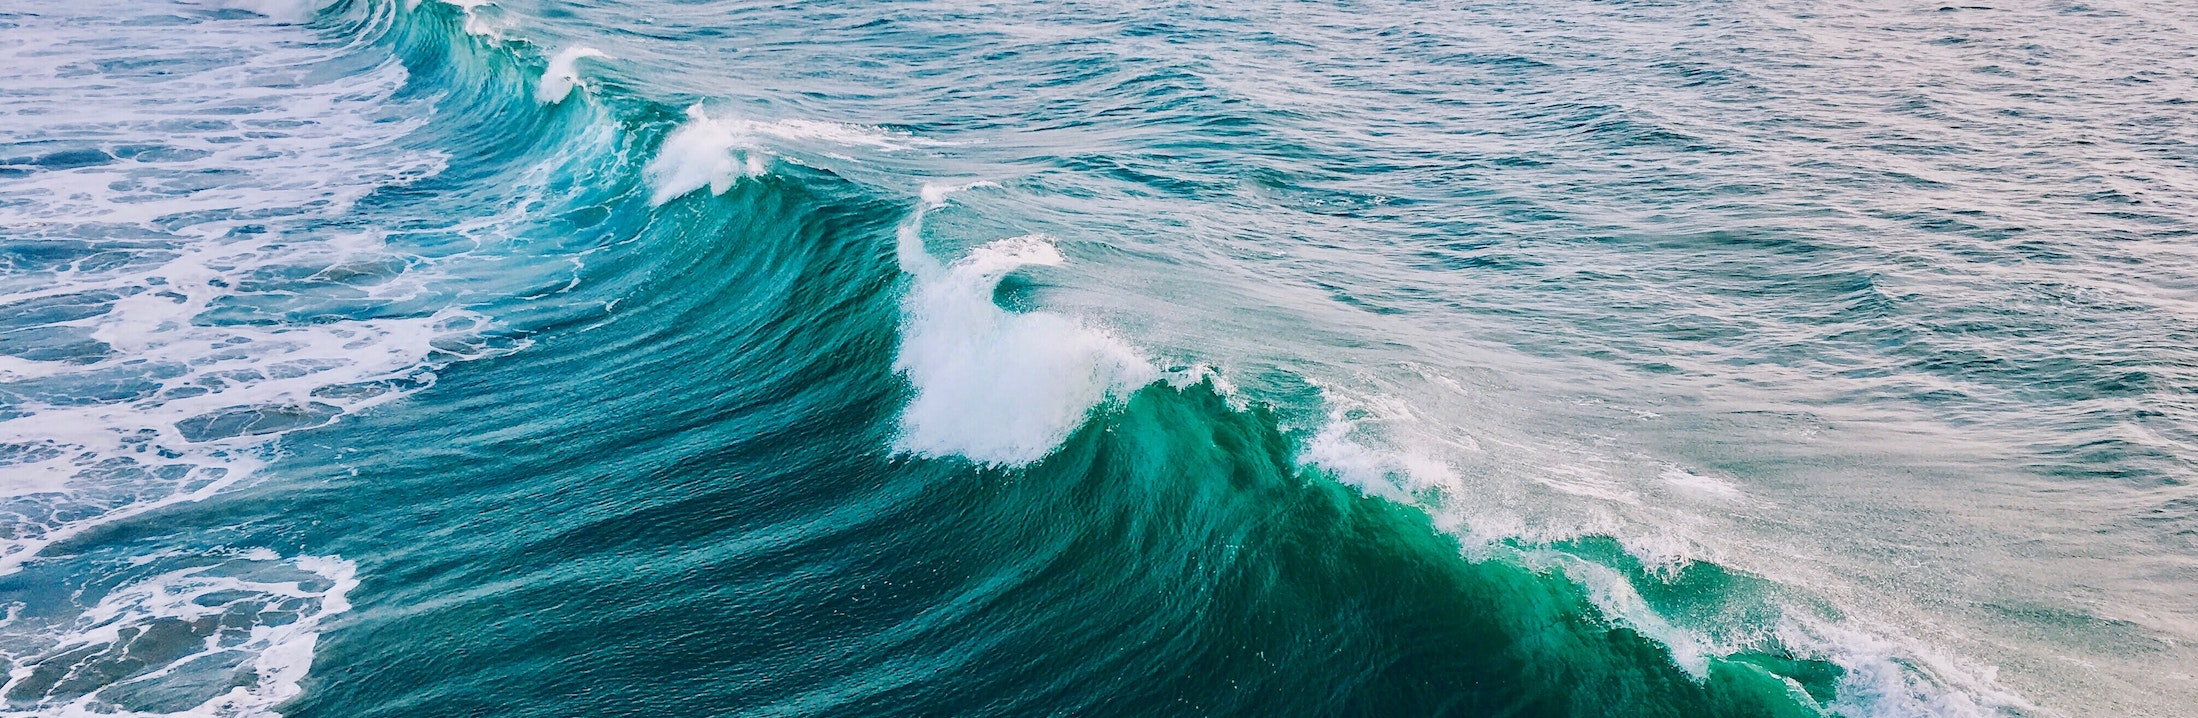
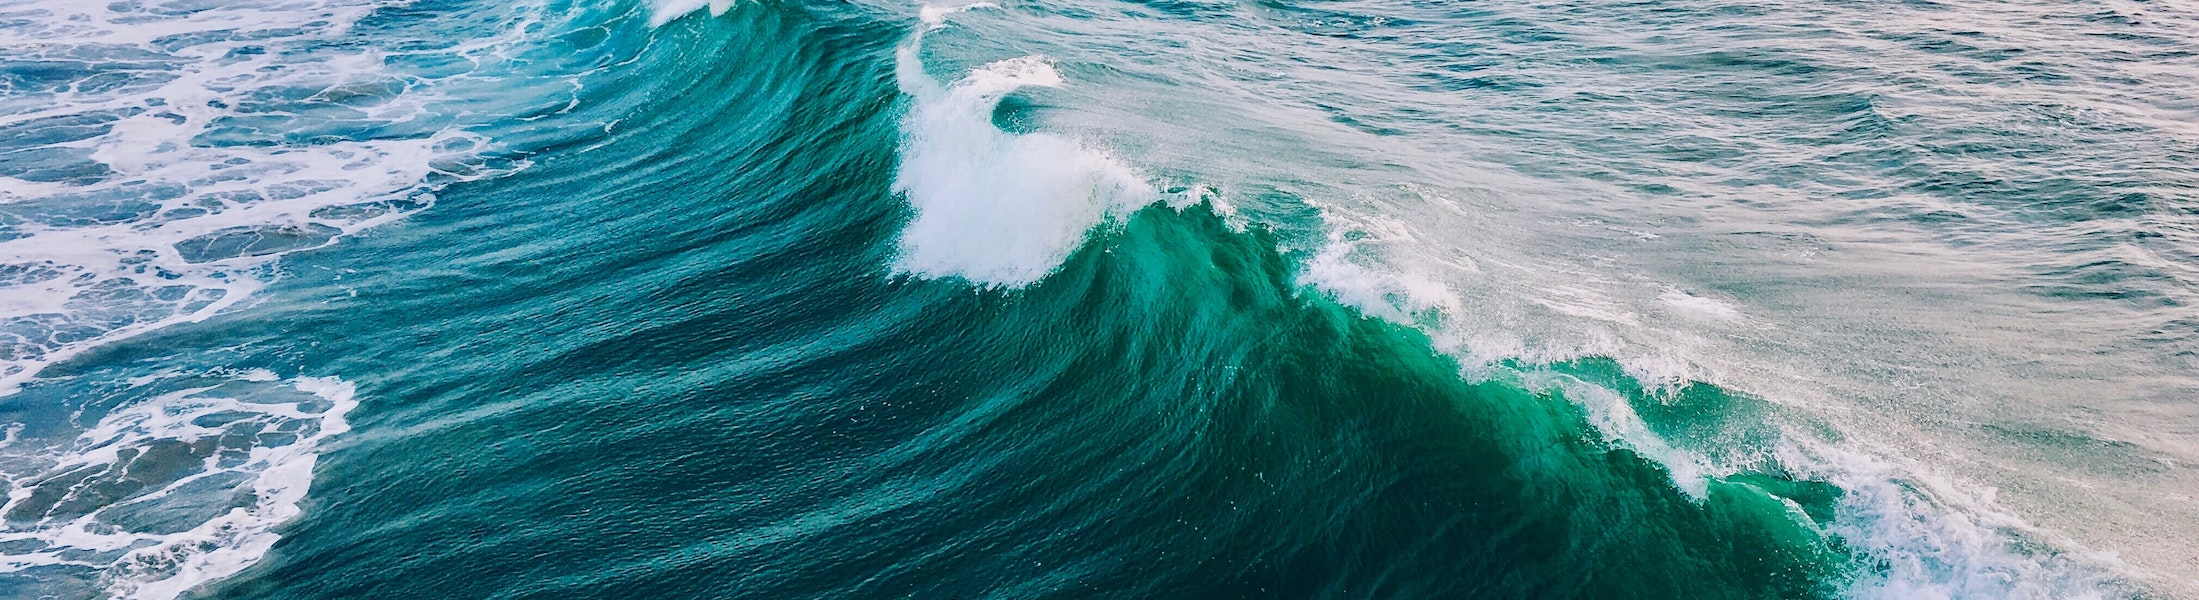
fix large image

diff --git a/css/custom.css b/css/custom.css
@@ -257,7 +257,7 @@ img {
   }
 }
 
-@media only screen and (min-width: 1200px) {
+@media only screen and (min-width: 1200px) and (max-width: 1600px) {
   #masthead {
     background: url("/public/images/masthead-w1600.jpg") no-repeat scroll top;
   }
@@ -272,9 +272,10 @@ img {
   }
 }
 
-@media only screen and (min-width: 1800px) {
+@media only screen and (min-width: 1601px) {
   #masthead {
     background: url("/public/images/masthead-w1920.jpg") no-repeat scroll top;
+    max-height: 600px;
   }
 
   #masthead h1 {
